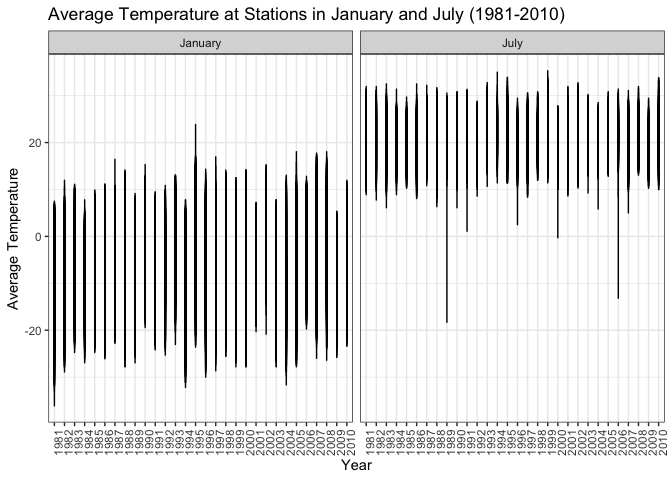
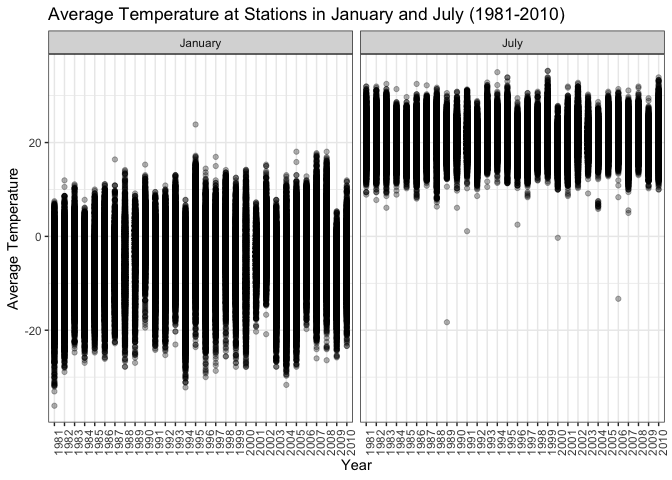
continued work on problem 3

diff --git a/p8105_hw3_ms5533.md b/p8105_hw3_ms5533.md
@@ -161,6 +161,10 @@ instacart_data %>%
 ## 1                 17.1
 ```
 
+*_Write a short description of the dataset, noting the size and
+structure of the data, describing some key variables, and giving
+illstrative examples of observations._*
+
 In the present Instacart dataset, there are **1384617** observations of
 specific items ordered with information across **15** variables.
 **59.9%** of items were reorded from previous orders. The listed order
@@ -256,7 +260,8 @@ instacart_data %>%
 # NOT SURE WHAT THIS IS ASKING...
 
 instacart_data %>% 
-  filter(aisle == "baking ingrediants" | aisle == "dog food care" | aisle == " packeged vegetables fruits") %>% 
+  filter(aisle == "baking ingrediants" | aisle == "dog food care" | 
+           aisle == " packeged vegetables fruits") %>% 
   group_by(aisle)
 ```
 
@@ -271,14 +276,17 @@ instacart_data %>%
 # filter by product, group by products/dow, spread, label dow, rename for table
 mean_hour_table = 
 instacart_data %>% 
-  filter(product_name == "Pink Lady Apples" | product_name == "Coffee Ice Cream") %>% 
+  filter(product_name == "Pink Lady Apples" | 
+           product_name == "Coffee Ice Cream") %>% 
   group_by(product_name, order_dow) %>% 
   summarise(
     mean_hour = mean(order_hour_of_day)) %>% 
   spread(key = product_name, value = mean_hour) %>% 
   mutate(
     order_dow = ordered(order_dow, levels = c(0:6), 
-                        labels = c("Sunday", "Monday", "Tuesday", "Wednesday", "Thursday", "Friday", "Saturday")
+                        labels = c("Sunday", "Monday", 
+                                   "Tuesday", "Wednesday", "Thursday", 
+                                   "Friday", "Saturday")
                         )) %>% 
   rename("Day of Week" = order_dow)
 ```
@@ -313,6 +321,10 @@ ny_noaa_data %>%
   nrow()
 ## [1] 1372743
 ```
+
+*_Write a short description of the dataset, noting the size and
+structure of the data, describing some key variables, and indicating the
+extent to which missing data is an issue._*
 
 In the present Instacart dataset, there are **2595176** observations
 with information across **7** variables. Key variables include date of
@@ -369,20 +381,21 @@ sense as most days of the year is is not snowing in New York.
 
 2.  *_Make a two-panel plot showing the average temperature in January
     and in July in each station across years. Is there any observable /
-    interpretable structure? Any outliers?_*
+    interpretable structure? Any
+outliers?_*
 
 <!-- end list -->
 
 ``` r
+# filter months want and rename, mutate - create mean temp, point plot and facet by month
 ny_noaa_data %>% 
   filter(month == "01" | month == "07") %>% 
   mutate(
     month = month.name[as.numeric(month)]) %>% 
-  group_by(id, year, month) %>% 
   mutate(
     mean_temp = (tmax + tmin)/2) %>% 
   ggplot(aes(x = year, y = mean_temp)) +
-  geom_line() +
+  geom_point(alpha = 0.3, na.rm = TRUE) +
   facet_grid(~ month) +
   labs(
     title = "Average Temperature at Stations in January and July (1981-2010)", 
@@ -390,7 +403,6 @@ ny_noaa_data %>%
     y = "Average Temperature", 
     legend = "State") +
   theme(axis.text.x = element_text(angle = 90))
-## Warning: Removed 21375 rows containing missing values (geom_path).
 ```
 
 ![](p8105_hw3_ms5533_files/figure-gfm/unnamed-chunk-14-1.png)<!-- -->
